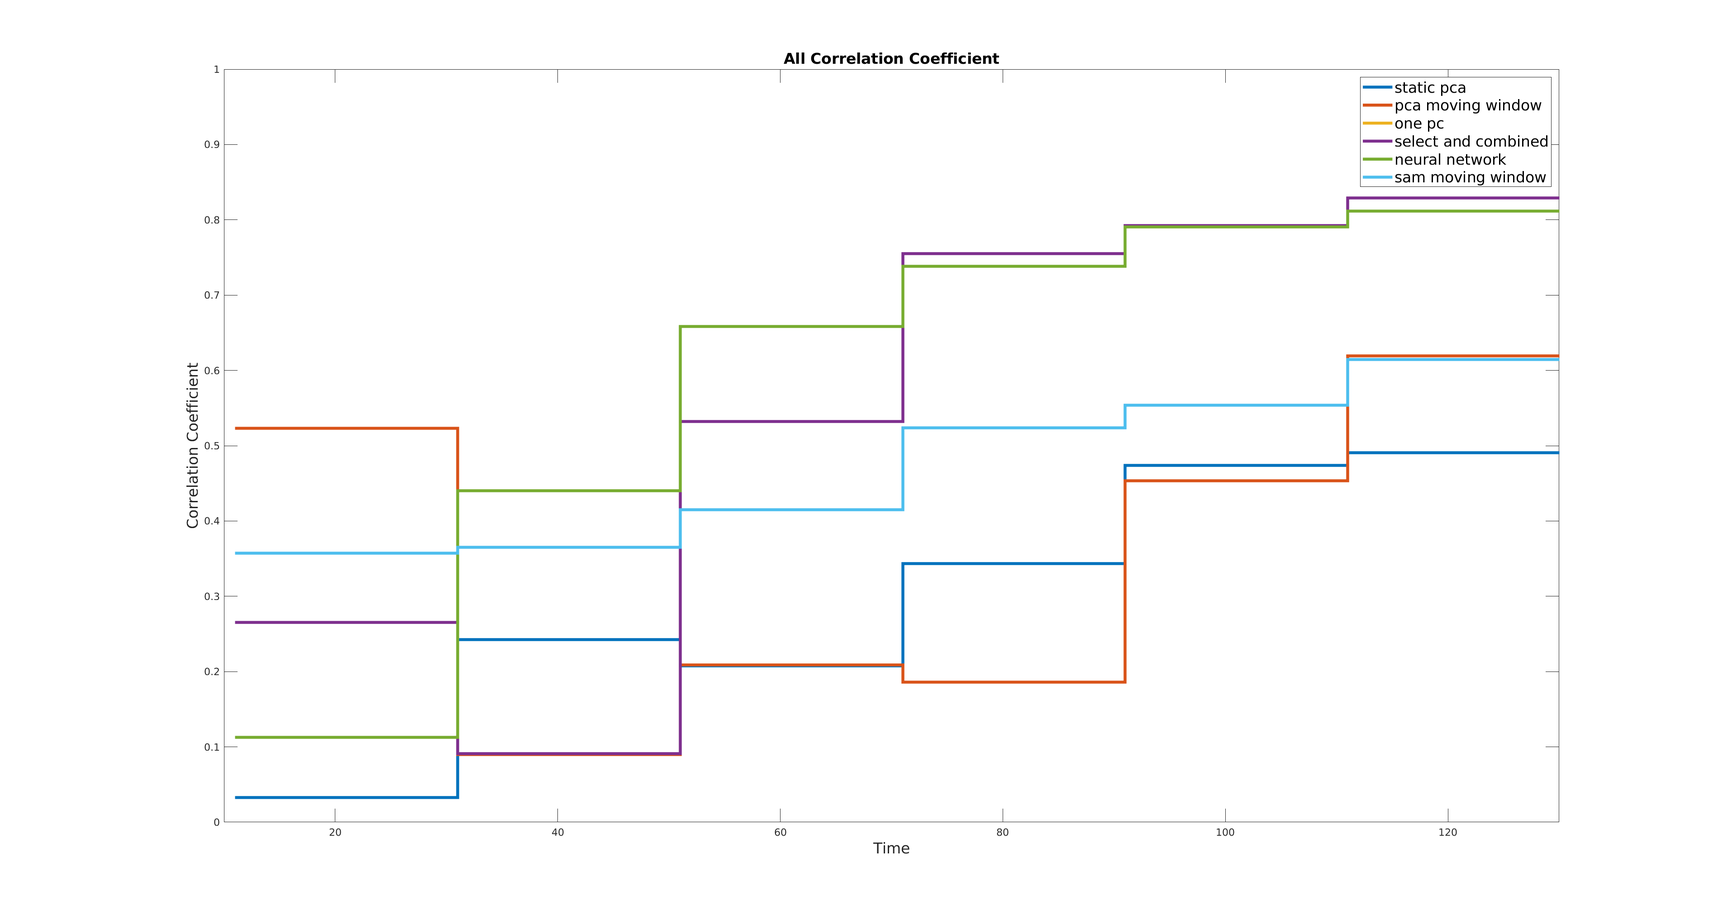
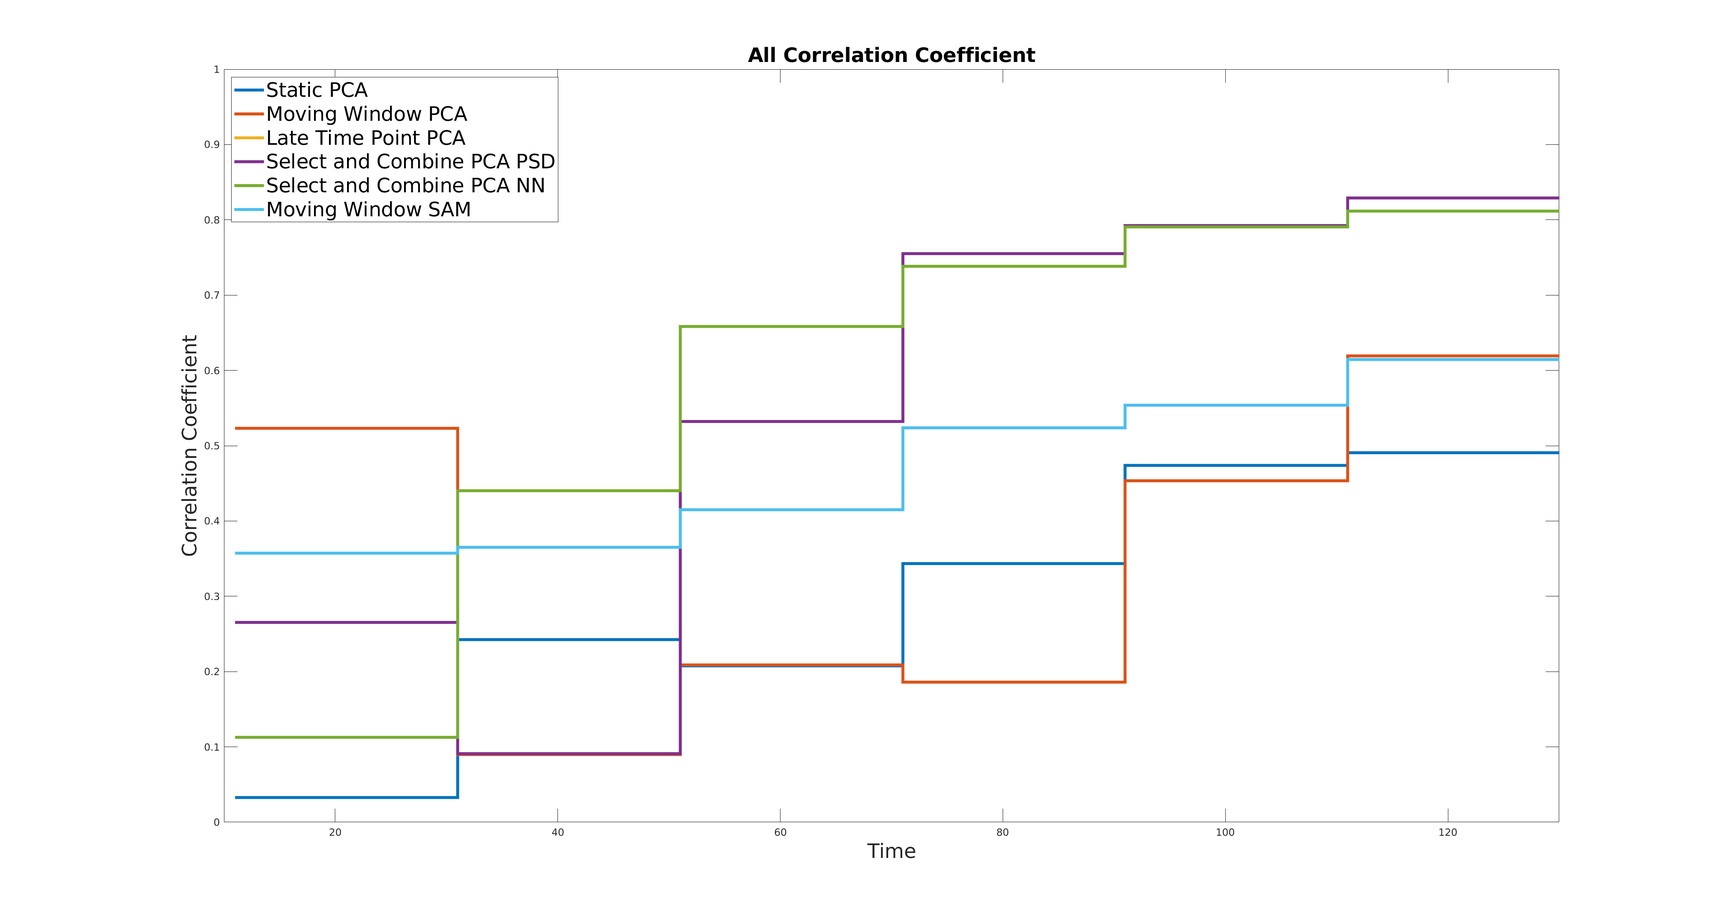
Updates from Overleaf

diff --git a/body.tex b/body.tex
@@ -1,35 +1,34 @@
 \section{Introduction} \label{sec:introduction}
-    \IEEEPARstart{R}{espiratory} motion reduces image resolution by introducing blurring and mis-alignment artefacts~\cite{Nehmeh2008a}. Methods of motion correction, including gated reconstruction, bin the acquisition based on a surrogate signal. This surrogate signal is a respiratory trace which reflects the position of the patient in the respiratory cycle over time~\cite{Kesner2010AMethods, Kesner2013GatingPET}. Methods to determine the surrogate signal include those which use an external device, for instance, the \gls{RPM}~\cite{Bettinardi2013Motion-trackingPET/CT}. A disadvantage of such methods are that they require the use of additional equipment and a change to clinical practise. Thus, data driven methods to extract the surrogate signal have become an alternative for static \acrshort{PET} data.
-    However, current data driven methods are adversely affected by the radiotracer kinetics of a dynamic \acrshort{PET} acquisition; where the tracer is injected after the beginning of the scan. As an example, methods that use dimensionality reduction (such as \gls{PCA}, \cite{Thielemans2011, Bertolli2018Data-DrivenTomography}) are hampered by the fact that at the start of the scan, rapid redistribution of the radiotracer causes more variance in the data than the respiratory motion.
+    \IEEEPARstart{R}{espiratory} motion reduces image resolution by introducing blurring and mis-alignment artefacts~\cite{Nehmeh2008a}. Methods of \gls{MC} include gated reconstruction; bin the acquisition based on a \gls{SS}. This \gls{SS} is a respiratory trace which reflects the position of the patient in the respiratory cycle over time~\cite{Kesner2010AMethods, Kesner2013GatingPET}. Methods to determine the \gls{SS} include those which use an external device, for instance, the \gls{RPM}~\cite{Bettinardi2013Motion-trackingPET/CT}. A disadvantage of such methods are that they require the use of additional equipment, and a change to clinical practice. Thus, data driven methods to extract the \gls{SS} have become an alternative for static \acrshort{PET} data. However, current data driven methods are adversely affected by the radiotracer kinetics of a dynamic \acrshort{PET} acquisition; where the tracer is injected after the beginning of the scan. As an example, methods that use dimensionality reduction (such as \acrshort{PCA}~\cite{Thielemans2011, Bertolli2018Data-DrivenTomography}) are hampered by the fact that at the start of the scan, rapid redistribution of the radiotracer causes more variance in the data, than the respiratory motion.
     
-    Previously, work was performed to extend the \gls{SAM} method to be robust to radiotracer kinetics, this work proposed the use of \gls{STFT} to generate masks for \gls{SAM}, this was called \gls{KRG}~\cite{Schleyer2014}. \gls{STFT} operates by splitting the data into time windows and doing a \acrlong{FFT} on them independently, this could be approximated by windowing the data first and then performing \gls{SAM}.
+    Previously, work was performed to extend \gls{SAM} to be robust to radiotracer kinetics. This work proposed the use of \gls{STFT}, to generate masks for \gls{SAM}. This was called \gls{KRG}~\cite{Schleyer2014}. \gls{STFT} operates by splitting the data into time windows, and doing a \acrlong{FFT} on them independently. This could be approximated by windowing the data first, and then performing \gls{SAM}.
     
-    The aim of this work is to propose several adaptions of the \gls{PCA} method through which it can be used with dynamic \acrshort{PET} data and compare their performance with a method based on \gls{KRG}. The methods explored in this work include the use of a moving window, re-use of the \glss{PC} from a later time point to estimate the surrogate signal from earlier time points and the automatic selection and combination of multiple \glss{PC}.
+    The aim of this work is to propose several adaptions of the \acrshort{PCA} method, through which it can be used with dynamic \acrshort{PET} data, and compare their performance with a method based on \gls{KRG}. The methods explored in this work include; the use of a moving window, re-use of the \glss{PC} from a later time point to estimate the \gls{SS} from earlier time points, and the automatic selection and combination of multiple \glss{PC}.
 
 \vspace{-0.5cm}
     
 \section{Methods} \label{sec:methods}
     \subsection{Data Acquisition} \label{sec:data_acquisition}
-        Data was acquired from a research study with patients suffering from idiopathic pulmonary fibrosis. $21$ dynamic \acrshort{18F-FDG} \acrshort{PET} acquisitions, with a \acrlong{FOV} covering the upper lung and heart, were acquired on a \acrshort{GE} Discovery $710$~\cite{Oh2019OptimalTreatment, Emond2020EffectReconstruction}. Surrogate signals were acquired in parallel using an \gls{RPM}.
+        Data was acquired from a research study with patients suffering from idiopathic pulmonary fibrosis. $21$ dynamic \acrshort{18F-FDG} \acrshort{PET} acquisitions, with a \acrlong{FOV} covering the upper lung and heart, were acquired on a \acrshort{GE} Discovery $710$~\cite{Oh2019OptimalTreatment, Emond2020EffectReconstruction}. \glss{SS} were acquired in parallel using the \gls{RPM}.
     
     \vspace{-0.5cm}
         
     \subsection{Data Preparation} \label{sec:data_preparation}
-        \gls{TOF} data were unlisted into low spatial resolution sinograms, each with time frame duration of \SI{500}{\milli\second}, using the \acrshort{GE} PetToolbox resulting in sinograms with dimensions $95 x 16 x 47 x 11$ (radial positions $x$ angles $x$ transaxial plane $x$ \gls{TOF}).
+        \gls{TOF} data were unlisted into low spatial resolution sinograms, each with a time frame duration of \SI{500}{\milli\second}, using the \acrshort{GE} PetToolbox, resulting in sinograms with dimensions $95\times16\times47\times11$ (radial positions$\times$angles$\times$transaxial plane$\times$\gls{TOF}).
         
-        Data was pre-processed by first applying a Freeman-Tukey transformation~\cite{Freeman1950TransformationsRoot} before then applying a Yeo-Johnson power transformation~\cite{Yeo2000ASymmetry}, this is in order to attempt to transform the Poisson distributed data to be more Gaussian-like. The resultant sinograms are further spatially downsampled.
+        Data was pre-processed, first by applying a Freeman-Tukey transformation~\cite{Freeman1950TransformationsRoot}, before then applying a Yeo-Johnson power transformation~\cite{Yeo2000ASymmetry}. This is in order to attempt to transform the Poisson distributed data to be more Gaussian-like. The resultant sinograms are further spatially downsampled.
         
-        \gls{PCA} was applied using the \gls{TOF} information~\cite{Bertolli2017DataData}.
+        \acrshort{PCA} was applied to the \gls{TOF} data~\cite{Bertolli2017DataData}.
     
     \vspace{-0.5cm}
         
     \subsection{Moving Window} \label{sec:moving_window}
-        The data is split into a series of windows, where each subsequent window overlaps with the previous window by half its length. The size of each window is predetermined and was selected experimentally. For this method \gls{PCA} is applied independently on each window and the results are averaged together, after sign correction. As the sign of the signal from each window is arbitrary,  the overlapping allows for a common sign to be found by comparing the correlation coefficient of neighbouring windows. If \gls{SAM} is used rather than \gls{PCA} here then the method approximates \gls{KRG}~\cite{Schleyer2014}.
+        The data is split into a series of windows, where each subsequent window overlaps with the previous by half its length. The size of each window is predetermined and was selected experimentally. For this method \acrshort{PCA} is applied independently on each window, and the results are averaged together, after sign correction. As the sign of the signal from each window is arbitrary, the overlapping allows for a common sign to be found, by comparing the correlation coefficient of neighbouring windows. If \gls{SAM} is used here rather than \acrshort{PCA}, then the method approximates \gls{KRG}~\cite{Schleyer2014}.
         
     \vspace{-0.5cm}
             
-    \subsection{Late Time Frame} \label{sec:late_time_frame}
-        A \gls{PC} from a Late Time Frame is taken and used with early time point data. The cutoff between early and later time point data was determined experimentally by varying the cutoff point and observing the impact this has on the correlation coefficient between the output and \gls{RPM} signal for the \SI{120}{\second} (between \SI{20}{\second} and \SI{140}{\second}).
+    \subsection{Late Time Point} \label{sec:late_time_point}
+        A \gls{PC} from a late time point is taken, and used with early time point data. The cutoff between early and later time points was determined experimentally; by varying the cutoff point and observing the impact on the correlation coefficient, between the output and \gls{RPM} signal for the first \SI{120}{\second} (between \SI{20}{\second} and \SI{140}{\second}).
         
     \vspace{-0.5cm}
     
@@ -37,26 +36,26 @@
         Here a "respiratory score" is used to order and combine multiple \glss{PC} to maximise this score.
         
         \subsubsection{Selecting \glss{PC}} \label{sec:selecting_pcs}
-              We used $2$ methods for scoring.
+              We used two methods for scoring:
               
-              In the first, \acrlong{PSD} are calculated and frequency windows representing the content of information related to radiotracer kinetics, respiratory motion and noise are defined. The contribution within each window is determined for each \gls{PC} by finding the max magnitude within the windows. Ratios are then calculated between the respiratory window and the kinetic window and the respiratory window and the noise window and a score determined by the product of these two values.
+              In the first, \gls{PSD} are calculated, and frequency windows representing the content of information related to radiotracer kinetics, respiratory motion, and noise are defined. The contribution within each window is determined for each \gls{PC}, by finding the maximum magnitude within the windows. Ratios are then calculated between the respiratory and the kinetic windows, and the respiratory and the noise windows and a score determined by the product of these two values.
         
         % \vspace{-0.5cm}
         
         %\subsubsection{Selecting \glss{PC} Using A Neural Network} \label{sec:selecting_pcs_using_a_neural_network}
-            In the second, a \gls{NN} was used for scoring ~\cite{Walker2020AutomaticAI}. The \gls{NN} is a pre-trained model designed to accept a signal as input and return a score between $0.0$ and $1.0$ where is most respiratory-like. The \gls{NN} was originally trained on a similar set of training data where the scores were predetermined by clinicians.
+            In the second, a \gls{NN} was used for scoring. The \gls{NN} is a pre-trained model, designed to accept a signal as input, and return a score between $0.0$ and $1.0$, where the greater the value the more respiratory-like the signal. The \gls{NN} was originally trained on a similar set of training data, where the scores were predetermined by clinicians~\cite{Walker2020AutomaticAI}.
         
         % \vspace{-0.5cm}
         
         \subsubsection{Combining \glss{PC}} \label{sec:combining_pcs}
-            \glss{PC} are first sorted according to the score. The sorted \glss{PC} are iterated over and both summed and subtracted with a weighting (the score) and a new score is found for both resulting signals. If one of the signals increases the score, it becomes the new best \gls{PC} and goes forward to the next iteration. \glss{PC} are both summed and subtracted to handle the arbitrary sign problem.
+            \glss{PC} are first sorted according to the score. The sorted \glss{PC} are iterated over and both summed and subtracted with a weighting (the score), and a new score is found for both resulting signals. If one of the signals increases the score, it becomes the new best \gls{PC}, and goes forward to the next iteration. \glss{PC} are both summed and subtracted to handle the arbitrary sign problem.
             
-            A similar method of combining signals was developed in~\cite{Kesner2010AMethods}. However, the scoring method used there (standard deviation) is not directly related to respiration. In addition, \cite{Kesner2010AMethods} combined signals from voxels where our methods uses PCs.
+            A similar method of combining signals was developed in~\cite{Kesner2010AMethods}. However, the scoring method used there (standard deviation) is not directly related to respiration. In addition,~\cite{Kesner2010AMethods} combined signals from voxels where our methods uses \glss{PC}.
         
     \vspace{-0.5cm}
             
     \subsection{Evaluation} \label{sec:evaluation}
-        For evaluation of the results the correlation coefficient of each surrogate signal between each method and the \gls{RPM}, for all acquisitions, has been calculated. The correlation coefficient has been calculated for both the first \SI{120}{\second} and also the entire acquisition.
+        For evaluation of the results, the correlation coefficient of each \gls{SS} between each method and the \gls{RPM}, for all acquisitions, has been calculated. The correlation coefficient has been calculated for both the first \SI{120}{\second}, and also the entire acquisition.
     
 \vspace{-0.5cm}
             
@@ -66,8 +65,8 @@
         
         \centering
         
-        % \includegraphics[width=0.9\linewidth]{figures/patient_one_output.png}
         \includegraphics[width=1.0\linewidth]{figures/patient_one_output.png}
+        % \includegraphics[width=1.0\linewidth]{figures/patient_one_output.png}
         
         \vspace{-0.4cm}
         
@@ -86,15 +85,15 @@
         
         \centering
         
-        % \includegraphics[width=0.9\linewidth]{figures/box_plot.png}
         \includegraphics[width=1.0\linewidth]{figures/box_plot.png}
+        % \includegraphics[width=1.0\linewidth]{figures/box_plot.png}
         
         \vspace{-0.4cm}
         
         \captionsetup{singlelinecheck=false, justification=centering}
         \caption{
         \scriptsize
-        A box plot showing for each method its correlation coefficient to the \gls{RPM} for both the first \SI{120}{\second} (between \SI{20}{\second} and \SI{140}{\second}) and also for the entire acquisition (taken for seven acquisitions).}
+        A box plot showing for each method its correlation coefficient, to the \gls{RPM}, for both the first \SI{120}{\second} (between \SI{20}{\second} and \SI{140}{\second}), and also for the entire acquisition (taken for seven acquisitions).}
         
         \label{fig:box_plot}
         
@@ -106,10 +105,10 @@
         
         \centering
         
-        % \includegraphics[width=0.9\linewidth]{figures/all_correlation_coefficient_stairs.png}
         \includegraphics[width=1.0\linewidth]{figures/all_correlation_coefficient_stairs.png}
+        % \includegraphics[width=1.0\linewidth]{figures/all_correlation_coefficient_stairs.png}
         
-        % \includegraphics[width=0.9\linewidth]{figures/all_correlation_coefficient.png}
+        % \includegraphics[width=1.0\linewidth]{figures/all_correlation_coefficient.png}
         % \includegraphics[width=1.0\linewidth]{figures/all_correlation_coefficient.png}
         
         \vspace{-0.5cm}
@@ -117,7 +116,7 @@
         \captionsetup{singlelinecheck=false, justification=centering}
         \caption{
         \scriptsize
-        A plot showing for each method its correlation coefficient to the \gls{RPM} for the first \SI{120}{\second} (between \SI{10}{\second} and \SI{130}{\second}, in twenty second windows) (taken as a mean for all data).}
+        A plot showing for each method its correlation coefficient, to the \gls{RPM}, for the first \SI{120}{\second} (between \SI{10}{\second} and \SI{130}{\second}, in \SI{20}{\second} windows, taken as a mean for all data).}
         
         \label{fig:all_cross_correlation}
         
@@ -143,15 +142,15 @@
     %     \vspace{-0.5cm}
     % \end{figure}
     
-     From~\Fref{fig:patient_one_output} and~\Fref{fig:all_cross_correlation} it can be observed that the static \gls{PCA} method has failed as expected. Both moving window methods extract a signal at later time points only.. The Late Time Frame \gls{PC}, Select and Combine and Select and Combine using a Neural Network methods all appear to be able to extract a usable signal down to \SI{20}{\second} after the start of the scan.
+    From~\Fref{fig:patient_one_output} and~\Fref{fig:all_cross_correlation} it can be observed that the Static \acrshort{PCA} method has failed, as expected. Both Moving Window methods extract a signal at later time points only. The Late Time Point, Select and Combine \gls{PSD}, and Select and Combine \gls{NN} methods all appear to be able to extract a usable signal, down to \SI{20}{\second} after the start of the scan.
     
-    In~\Fref{fig:box_plot} the improvement of the Late Time Frame \gls{PC} and by incorporating multiple \glss{PC} is most apparent with high correlation coefficient for both the early time point as well as for all data. The Select and Combine methods show marginally higher correlation coefficient than the Late Time Frame \gls{PC} method and the neural network shows slightly higher correlation coefficient than the frequency based scoring.
+    In~\Fref{fig:box_plot}, the improvement of the Late Time Point, Select and Combine \gls{PSD}, and Select and Combine \gls{NN} methods is most apparent, with high correlation coefficients for both the early time point, as well as for all data. The Select and Combine methods show marginally higher correlation coefficients than the Late Time Point method, and the \gls{NN} shows slightly higher correlation coefficients than the \gls{PSD}.
     
-    % In~\Fref{fig:patient_one_pc_output} it can be observed the static \gls{PCA} method returns a \gls{PC} which closely resembles the input data, leading to the conclusion that variation from a number of sources is included. It appears from a visual inspection that the least confounding variation and noise is included in the Select and Combine with Neural Network method.
+    % In~\Fref{fig:patient_one_pc_output} it can be observed the Static \acrshort{PCA} method returns a \gls{PC} which closely resembles the input data, leading to the conclusion that variation from a number of sources is included. It appears from a visual inspection that the least confounding variation and noise is included in the Select and Combine with \gls{NN} method.
 
 \vspace{-0.5cm}
 
 \section{Discussion and Conclusions} \label{sec:discussion_and_conclusions}
-    Results from the comparison to the \gls{RPM} indicate that the Late Time Frame \gls{PC} and both Select and Combine methods are more robust and afford higher quality signals than both moving window methods. The results also indicate that both Select and Combine methods can give a higher correlation coefficient earlier than the Late Time Frame \gls{PC} method and that the neural network shows slightly higher correlation coefficient than the frequency based scoring.
+    Results from the comparison to the \gls{RPM} indicate, the Late Time Point and both Select and Combine methods are more robust and afford higher quality signals than both Moving Window methods. The results also indicate, both Select and Combine methods can give a higher correlation coefficient earlier than the Late Time Point method. The \gls{NN} shows slightly higher correlation coefficient than the \gls{PSD}.
     
-    In the future, research will focus on further development of the method, including optimisation of the neural network scoring method. In the next stage, these methods will be applied to the task of implementing advanced respiratory motion correction on dynamic \acrshort{PET} data.
+    In the future, research will focus on further development of the method, including, optimisation of the \gls{NN} scoring method. In the next stage, these methods will be applied to the task of implementing advanced respiratory \acrlong{MC} on dynamic \acrshort{PET} data.

diff --git a/main.tex b/main.tex
@@ -79,10 +79,10 @@
         Alexander~C.~Whitehead~\IEEEauthorrefmark{1}~\IEEEauthorrefmark{2},
         Kuan-Hao~Su~\IEEEauthorrefmark{3},
         Elise~C.~Emond~\IEEEauthorrefmark{1},
-        Ander~Biguri~\IEEEauthorrefmark{1},
+        Ander~Biguri~\IEEEauthorrefmark{4},
         Maria~Machado~\IEEEauthorrefmark{1},
-        Joanna~C.~Porter~\IEEEauthorrefmark{4},
-        Helen~Garthwaite~\IEEEauthorrefmark{4},
+        Joanna~C.~Porter~\IEEEauthorrefmark{5},
+        Helen~Garthwaite~\IEEEauthorrefmark{5},
         Scott~D.~Wollenweber~\IEEEauthorrefmark{3},
         Jamie~R.~McClelland~\IEEEauthorrefmark{2} and
         Kris~Thielemans~\IEEEauthorrefmark{1}~\IEEEauthorrefmark{2}
@@ -102,6 +102,10 @@
     }
     \IEEEauthorblockA{
         \IEEEauthorrefmark{4}
+        \textit{Department of Applied Mathematics and Theoretical Physics, University of Cambridge, UK}
+    }
+    \IEEEauthorblockA{
+        \IEEEauthorrefmark{5}
         \textit{Centre for Respiratory Medicine, University College London, UK}
         \vspace{-0.75cm}
     }
@@ -116,7 +120,7 @@
 \IEEEpeerreviewmaketitle
 
 \begin{abstract}
-    Respiratory motion correction is beneficial in PET. Methods of motion correction include gated reconstruction, where the acquisition is binned based on a respiratory trace. To acquire these respiratory traces an external device like the Real Time Position Management system or a data driven method such as principal component analysis can be used. Data driven methods have the advantage that they are non-invasive and can be performed post-acquisition. However, data driven methods have the disadvantage that they are adversely affected by the tracer kinetics of a dynamic acquisition. This work seeks to evaluate several adaptions of the principal component analysis method through which it can be used with dynamic data. The methods explored in this work include using a moving window (similar to the KRG method of Schleyer et al.), extrapolation of the principal component from later time frames to earlier time frames as well as a method to select and combine multiple respiratory components. The respiratory traces acquired were evaluated on $22$ patients by calculating their correlation with a Real Time Position Management surrogate signal. The results indicate that all methods produce better surrogate signals than when applying static principle component analysis to dynamic data. Extrapolating a late principal component produced a more promising result than using a moving window and selecting and combining components held benefits for all methods.
+    Respiratory motion correction is beneficial in PET. Methods of motion correction include gated reconstruction, where the acquisition is binned, based on a respiratory trace. To acquire these respiratory traces, an external device, like the Real Time Position Management System, or a data driven method, such as PCA, can be used. Data driven methods have the advantage that they are non-invasive, and can be performed post-acquisition. However, data driven methods have the disadvantage that they are adversely affected by the tracer kinetics of a dynamic acquisition. This work seeks to evaluate several adaptions of the PCA method, through which it can be used with dynamic data. The methods explored in this work include, using a moving window (similar to the KRG method of Schleyer et al. (PMB 2014)), extrapolation of the principal component from later time points to earlier time points, as well as a method to select and combine multiple respiratory components. The respiratory traces acquired, were evaluated on $21$ patients, by calculating their correlation with a Real Time Position Management System surrogate signal. The results indicate that all methods produce better surrogate signals than when applying static PCA to dynamic data. Extrapolating a late principal component, produced more promising results than using a moving window, and selecting and combining components held benefits for all methods.
 \end{abstract}
 
 \vspace{-0.5cm}
